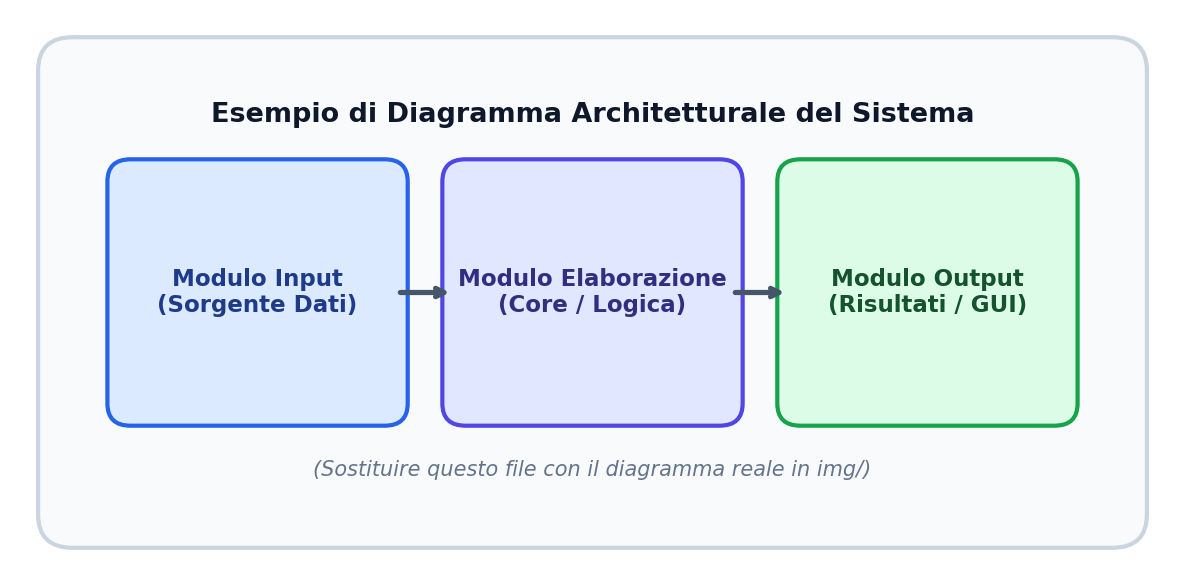
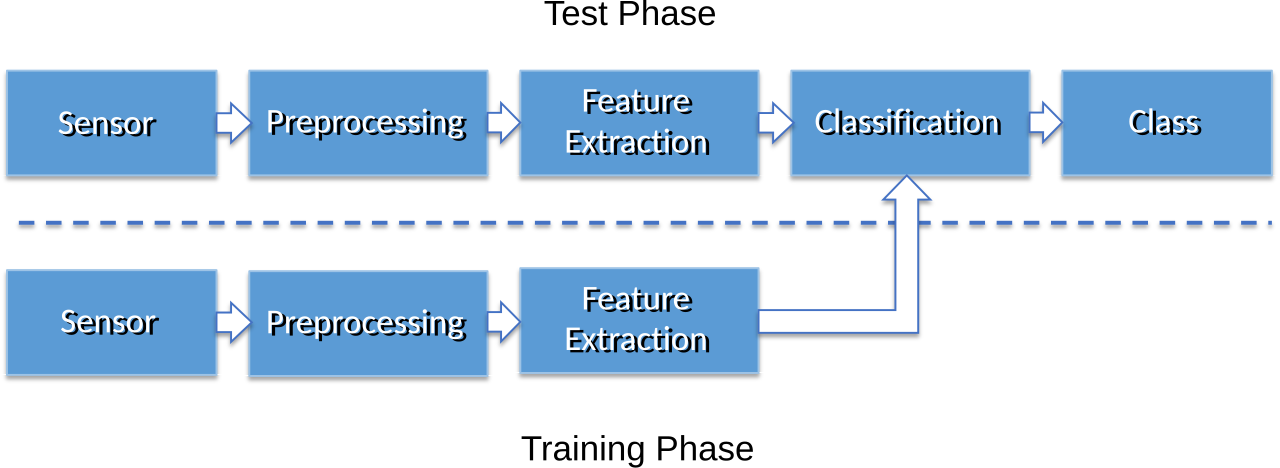
yep

diff --git a/Cap3_sistema.tex b/Cap3_sistema.tex
@@ -54,12 +54,12 @@ Ogni figura inserita nella tesi deve:
     \item \textbf{Essere sempre citata nel testo} con \texttt{\textbackslash Cref\{fig:\dots\}} o \texttt{\textbackslash ref\{fig:\dots\}}. Una figura mai citata nel testo è un grave errore metodologico.
 \end{enumerate}
 
-La \Cref{fig:architettura-esempio} illustra lo schema a blocchi dell'architettura proposta, evidenziando il flusso continuo tra la sorgente dei dati, il modulo di inferenza e il componente decisionale.
+La \Cref{fig:architettura-esempio} illustra a titolo di esempio uno schema architetturale e di pipeline (sostituibile con il diagramma UML o architetturale specifico della tesi), evidenziando le fasi di acquisizione, pre-elaborazione, estrazione delle feature e classificazione/decisione.
 
 \begin{figure}[htbp]
     \centering
-    \includegraphics[width=0.85\textwidth]{placeholder_figura.png}
-    \caption{Diagramma architetturale di alto livello del sistema proposto. Il componente centrale elabora le osservazioni sensoriali e calcola la politica di controllo ottima.}
+    \includegraphics[width=0.92\textwidth]{placeholder_figura.png}
+    \caption{Esempio di schema architetturale e pipeline di elaborazione a blocchi (ispirato allo standard di riconoscimento e classificazione, Wikimedia Commons). Nel lavoro di tesi, sostituire questa figura con l'architettura specifica del proprio sistema o software.}
     \label{fig:architettura-esempio}
 \end{figure}
 
@@ -68,16 +68,16 @@ La \Cref{fig:architettura-esempio} illustra lo schema a blocchi dell'architettur
 \label{sec:esempi-flowchart}
 % ----------------------------------------------------------------------------
 
-Accanto ai diagrammi architetturali (che mostrano la struttura statica dei moduli), i \textbf{diagrammi di flusso (flowchart)} sono fondamentali per rappresentare visivamente la dinamica temporale, le diramazioni condizionali (\texttt{if-else}) e la sequenza delle operazioni. 
+Accanto ai diagrammi architetturali (che mostrano la struttura statica dei moduli o delle pipeline), i \textbf{diagrammi di flusso (flowchart)} sono fondamentali per rappresentare visivamente la dinamica temporale, le diramazioni condizionali (\texttt{if-else}) e la sequenza delle operazioni decisionali. 
 
-Un diagramma di flusso chiaro \textbf{sostituisce con enorme efficacia lunghe pagine di codice}, permettendo al lettore di cogliere la logica dell'algoritmo in pochi secondi.
+Un diagramma di flusso chiaro ed elegante \textbf{sostituisce con enorme efficacia lunghe pagine di codice sorgente}: permette al docente e alla commissione di cogliere la logica algoritmica in pochi istanti, senza perdersi nei dettagli implementativi di basso livello.
 
-La \Cref{fig:diagramma-flusso} illustra il flusso logico decisionale eseguito a ogni passo temporale.
+La \Cref{fig:diagramma-flusso} riporta un classico diagramma di flusso a norma ISO, illustrando l'uso standard dei blocchi di inizio/fine (ovali), di controllo condizionale (rombi di decisione con rami \textit{Yes/No}) e di elaborazione/azione (rettangoli).
 
 \begin{figure}[htbp]
     \centering
-    \includegraphics[width=0.75\textwidth]{placeholder_flusso.png}
-    \caption{Diagramma di flusso logico per ciascun timestep. Evidenzia la diramazione condizionale a fronte del superamento della soglia di anomalia e la convergenza verso la selezione dell'azione ottima.}
+    \includegraphics[width=0.45\textwidth]{placeholder_flusso.png}
+    \caption{Esempio canonico di diagramma di flusso decisionale conforme agli standard grafici di processo (Wikimedia Commons). Nella tesi, sostituire con il flusso decisionale o computazionale del proprio algoritmo.}
     \label{fig:diagramma-flusso}
 \end{figure}
 

diff --git a/README.md b/README.md
@@ -1,0 +1,125 @@
+# Template di Tesi di Laurea Triennale in Informatica
+### Università degli Studi dell'Insubria — Dipartimento di Scienze Teoriche ed Applicate (DiSTA)
+
+Modello ufficiale e guida metodologica per la redazione della tesi di laurea in **Informatica** (Corso di Studio in Informatica), allineato alle preferenze di ricerca e didattiche del **Prof. Jesús Cevallos** (docente di *Probabilità e Statistica per l'Informatica*).
+
+---
+
+## 🚀 Come Iniziare (Workflow Consigliato)
+
+### 1. Fai il Fork della Repository
+Consigliamo vivamente a ciascuno studente di **non scaricare un semplice file ZIP**, ma di effettuare un **Fork** di questa repository sul proprio account personale GitHub:
+1. Clicca sul pulsante **Fork** in alto a destra su GitHub.
+2. Assegna alla nuova repository il nome desiderato (es. `tesi-triennale-informatica`).
+3. Avrai così a disposizione un repository Git personale che terrà traccia di tutta la storia delle modifiche, garantendo **backup automatico, versioning e sicurezza** contro ogni perdita di dati.
+
+---
+
+### 2. Scegli il Tuo Workspace di Scrittura
+
+Puoi lavorare sulla tesi sia online sia in locale sul tuo computer.
+
+#### Opzione A: Overleaf (Scrittura Cloud & Sincronizzazione Automatica con GitHub)
+Overleaf permette di collegare direttamente un repository GitHub a un progetto:
+1. Effettua l'accesso a [Overleaf](https://www.overleaf.com).
+2. Se non l'hai già fatto, collega il tuo account GitHub nelle impostazioni del profilo:  
+   *Account Settings* $\rightarrow$ *Integrations* $\rightarrow$ *Link GitHub Account*.
+3. Dalla dashboard di Overleaf, clicca su:  
+   **New Project** $\rightarrow$ **Import from GitHub**.
+4. Seleziona il repository del tuo fork appena creato.
+5. **Configurazione Compilatore su Overleaf**:
+   - Apri il menu in alto a sinistra su Overleaf (*Menu*).
+   - Verifica che il compilatore sia impostato su **pdfLaTeX** (o **LuaLaTeX**).
+   - Verifica che *TeX Live version* sia impostata sull'anno più recente (2023 o 2024).
+   - Verifica che il file principale (*Main document*) sia impostato su `main.tex`.
+6. Da questo momento, qualsiasi commit effettuato su GitHub può essere sincronizzato su Overleaf e viceversa con un semplice comando di sincronizzazione (*Menu* $\rightarrow$ *GitHub* $\rightarrow$ *Sync / Push & Pull*).
+
+#### Opzione B: Ambiente Locale (VS Code / TeXstudio / Neovim / CLI)
+Se preferisci lavorare in locale sul tuo computer:
+1. Clona il tuo fork:
+   ```bash
+   git clone git@github.com:<tuo-username>/<nome-repo>.git
+   cd <nome-repo>
+   ```
+2. **Editor consigliato**: Visual Studio Code con l'estensione **LaTeX Workshop**, oppure TeXstudio.
+3. **Compilazione**:
+   Il progetto include la configurazione per `latexmk` e `biber`:
+   ```bash
+   latexmk -pdf main.tex
+   ```
+   Oppure la sequenza classica:
+   ```bash
+   pdflatex main.tex
+   biber main
+   pdflatex main.tex
+   pdflatex main.tex
+   ```
+
+---
+
+## 🧭 Metodologia di Ricerca e Ordine di Scrittura
+
+> [!IMPORTANT]
+> **Scrivere l'Introduzione per ultima!**  
+> L'errore più comune degli studenti è iniziare la tesi scrivendo l'Introduzione (Capitolo 1). Dedicare settimane all'introduzione prima di avere completato il codice e l'analisi sperimentale brucia energie preziose e porta a fallire lo **scope** del progetto.
+
+L'ordine di stesura raccomandato è:
+1. **Capitoli 4 e 5 (Implementazione e Risultati Sperimentali):** Si redigono subito dopo aver condotto la sperimentazione pratica e raccolto le metriche.
+2. **Capitolo 3 (Progettazione del Sistema):** Formalizza l'architettura, i modelli matematici e le scelte ad alto livello.
+3. **Capitolo 2 (Stato dell'Arte e Background):** Rivede la letteratura con la piena consapevolezza di cosa è servito davvero per realizzare il lavoro.
+4. **Capitolo 6 (Conclusioni e Sviluppi Futuri):** Sintetizza gli obiettivi raggiunti e i limiti.
+5. **Capitolo 1 (Introduzione) e Abstract:** **SOLO ALLA FINE**. Solo quando il lavoro è concluso si possiede la visione panoramica necessaria per introdurre la tesi in modo coerente e incisivo.
+
+### Cos'è una "Tesi"?
+Una tesi è una **risposta specifica (affermazione o negazione)** a una **domanda di ricerca (ipotesi)**:
+- *Esempio di tesi:* "È possibile creare una procedura di migrazione automatica da framework X a linguaggio Y senza degradare le prestazioni di latenza per oltre il 15\% nelle condizioni A, B e C."
+- Più l'affermazione è specifica e misurabile, più è solida e difendibile.
+- La **domanda di ricerca** costituisce almeno il **60% del valore dell'intera tesi (6 punti su 10)**.
+
+### Il Ruolo del Codice
+Il codice sorgente in una tesi di laurea non è fine a se stesso né è un prodotto di ingegneria commerciale: è uno **strumento epistemico**, cioè lo strumento rigoroso che consente di rispondere alla domanda di ricerca con **zero ambiguità**.
+
+---
+
+## 📋 Regole Istituzionali e di Formattazione (Insubria DiSTA)
+
+1. **Denominazioni Ufficiali**:
+   - Ateneo: `UNIVERSITÀ DEGLI STUDI DELL'INSUBRIA`
+   - Dipartimento: `DIPARTIMENTO DI SCIENZE TEORICHE ED APPLICATE`
+   - Corso: `CORSO DI STUDIO IN INFORMATICA` *(non "Corso di Laurea")*
+2. **Frontespizio**:
+   - Lo studente inserisce direttamente **Nome e Cognome (+ Matricola)**, omettendo la dicitura "Candidato/a:" o "Tesi di Laurea di:".
+3. **Codice Sorgente nella Tesi**:
+   - **È vietato inserire blocchi di codice giganteschi**. Il listato sorgente va limitato a brevi snippet mirati (10–20 righe) per logiche algoritmiche critiche.
+   - Per tutto il resto si devono usare: **pseudocodice formale** (ambiente `algorithm` + `algpseudocode`), **diagrammi architetturali** e **diagrammi di flusso (flowchart)**.
+4. **Tabelle e Figure**:
+   - Usare sempre tabelle scientifiche con il pacchetto `booktabs` (**nessuna linea verticale**).
+   - Figure vettoriali (PDF) o raster ad alta definizione (PNG a 300 DPI), sempre con `\caption` e `\label`, e **sempre citate esplicitamente nel testo** con `\Cref{...}`.
+5. **Bibliografia Accademica**:
+   - **Minimo 20 citazioni scientifiche autorevoli** nel file `biblio.bib` (`@article`, `@inproceedings`, `@book`, `@techreport`), gestite tramite `biblatex` e `biber`. Evitare sitografie generiche o link web non accademici.
+
+---
+
+## 📁 Struttura della Repository
+
+```text
+.
+├── main.tex                  # File master (preambolo, frontespizio, indici, inclusione capitoli)
+├── biblio.bib                # Archivio bibliografico BibLaTeX (20+ fonti accademiche curate)
+├── Cap1_introduzione.tex      # Guida metodologica, tesi, ipotesi, scope e pipeline
+├── Cap2_background.tex        # Stato dell'arte, revisione della letteratura e guida citazioni
+├── Cap3_sistema.tex           # Architettura, diagrammi, tabelle booktabs ed equazioni
+├── Cap4_implementazione.tex   # Tecnologie, buone pratiche e regole per i listati di codice
+├── Cap5_risultati.tex         # Metodologia di test, tabelle comparative e analisi critica
+├── Cap6_conclusioni.tex       # Valutazione obiettivi, limiti e sviluppi futuri
+├── img/                       # Cartella figure (logo Insubria, diagrammi di esempio)
+│   ├── logo_insu.jpeg
+│   ├── placeholder_figura.png # Diagramma architetturale (Wikimedia Commons)
+│   └── placeholder_flusso.png # Flowchart decisionale standard (Wikimedia Commons)
+└── .gitignore                 # Regole per escludere file ausiliari di compilazione LaTeX
+```
+
+---
+
+## ⚖ Note per Altri Relatori
+Questo template e le linee guida incorporate riflettono la visione metodologica del **Prof. Jesús Cevallos** per le tesi del Corso di Studio in Informatica dell'Università degli Studi dell'Insubria. Gli studenti che svolgono la tesi con altri docenti relatori dovrebbero verificare eventuali preferenze o specifiche editoriali del proprio relatore.
